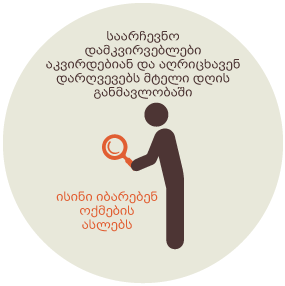
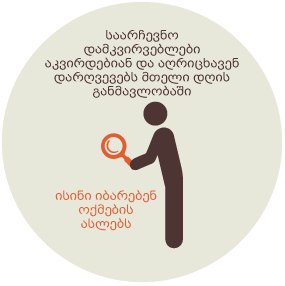
comma removed from numbers in ka; replaced step 6 image

diff --git a/election_errors/ka/index.html b/election_errors/ka/index.html
@@ -122,7 +122,7 @@
       <div class="cell">
         <div class="row-fluid top">
           <div class="span5 offset1">
-            <div class="numbers">37,148</div>
+            <div class="numbers">37 148</div>
             <div class="number_text">უზუსტობა</div>
             <img src="../img/arrow_white.png" />
           </div>
@@ -141,7 +141,7 @@
         <div class="bottom">
           <div id="line1">
             <div>შემოწმებისას<br/> გამოვლენილია</div>
-            <div>45,011</div>
+            <div>45 011</div>
             <div>უზუსტობა</div>
           </div>
           <div id="line2"></div>
@@ -185,11 +185,11 @@
       </div>
       <div class="bottom-container">
         <div class="bottom-left">
-          <span>10,914</span>
+          <span>10 914</span>
           <span>საარჩევნო უბნის ოქმებში</span>
         </div>
         <div class="bottom-right">
-          <span>34,097</span>
+          <span>34 097</span>
           <span>ცესკოს მონაცემებში</span>
         </div>
       </div>
